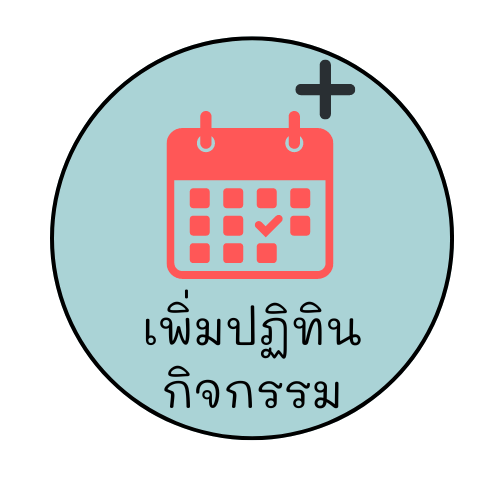
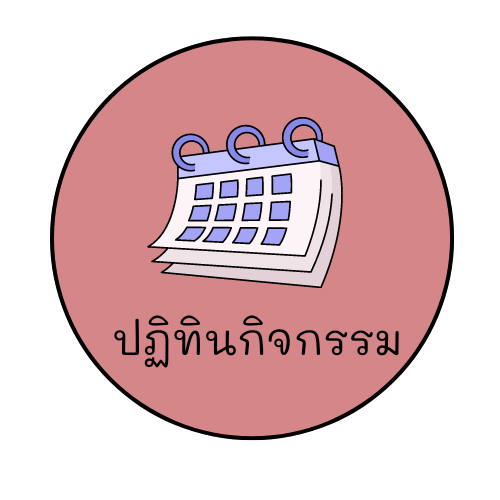
6/22/2024 4:28

diff --git a/login/admin/dashboard/home.php b/login/admin/dashboard/home.php
@@ -35,12 +35,12 @@ $finishCount = 0;
 //     $stmt->execute();
 //     $result = $stmt->fetch(PDO::FETCH_ASSOC);
 //     $breakwaterCount = $result['count'];
-    
+
 //     $stmt = $conn->prepare("SELECT COUNT(*) AS count FROM test WHERE card = 'finish'");
 //     $stmt->execute();
 //     $result = $stmt->fetch(PDO::FETCH_ASSOC);
 //     $finishCount = $result['count'];
-    
+
 
 // } catch(PDOException $e) {
 //     echo "Error: " . $e->getMessage();
@@ -50,31 +50,33 @@ $finishCount = 0;
 ?>
 <!DOCTYPE html>
 <html lang="en">
+
 <head>
     <meta charset="UTF-8">
     <meta name="viewport" content="width=device-width, initial-scale=1.0">
     <title>หน้าหลัก | Watchonglom</title>
     <link rel="stylesheet" href="https://cdn.datatables.net/2.0.1/css/dataTables.dataTables.min.css">
-       <!-- Favicons -->
-       
-  <link rel="apple-touch-icon" sizes="180x180" href="../../assets/img/favicons/senate.png">
-  <link rel="icon" type="image/png" sizes="32x32" href="../../assets/img/favicons/senate.png">
-  <link rel="icon" type="image/png" sizes="16x16" href="../../assets/img/favicons/senate.png">
-  <link rel="manifest" href="../../assets/img/favicons/senate.png">
-  <link rel="mask-icon" href="../../assets/img/favicons/senate.png" color="#5bbad5">
-  <link rel="shortcut icon" href="../../assets/img/favicons/senate.png">
-  <meta name="msapplication-TileColor" content="#da532c">
-  <meta name="msapplication-config" content="../../assets/img/favicons/senate.png">
-  <meta name="theme-color" content="#ffffff">
+    <!-- Favicons -->
+
+    <link rel="apple-touch-icon" sizes="180x180" href="../../assets/img/favicons/senate.png">
+    <link rel="icon" type="image/png" sizes="32x32" href="../../assets/img/favicons/senate.png">
+    <link rel="icon" type="image/png" sizes="16x16" href="../../assets/img/favicons/senate.png">
+    <link rel="manifest" href="../../assets/img/favicons/senate.png">
+    <link rel="mask-icon" href="../../assets/img/favicons/senate.png" color="#5bbad5">
+    <link rel="shortcut icon" href="../../assets/img/favicons/senate.png">
+    <meta name="msapplication-TileColor" content="#da532c">
+    <meta name="msapplication-config" content="../../assets/img/favicons/senate.png">
+    <meta name="theme-color" content="#ffffff">
     <!-- stylesheet -->
-  <link rel="stylesheet" href="https://fonts.googleapis.com/css?family=Mali">
-  <link rel="stylesheet" href="../plugins/fontawesome-free/css/all.min.css">
-  <link rel="stylesheet" href="../assets/css/adminlte.min.css">
-  <link rel="stylesheet" href="../assets/css/style1.css">
+    <link rel="stylesheet" href="https://fonts.googleapis.com/css?family=Mali">
+    <link rel="stylesheet" href="../plugins/fontawesome-free/css/all.min.css">
+    <link rel="stylesheet" href="../assets/css/adminlte.min.css">
+    <link rel="stylesheet" href="../assets/css/style1.css">
 </head>
-<body class = "hold-transition sidebar-mini">
+
+<body class="hold-transition sidebar-mini">
     <div class="wrapper">
-        <?php include_once('../includes/sidebar.php')?>
+        <?php include_once('../includes/sidebar.php') ?>
         <div class="content-wrapper">
             <div class="content-header">
                 <div class="container-fluid">
@@ -92,28 +94,48 @@ $finishCount = 0;
             </div>
             <!-- Main content -->
             <div class="content">
-            <div class="container-fluid">
-                <div class="row">                
-                    <div class="col-12 col-md-3">
-                        <div class="card">
-                            <form id="formData">
-                                    <a href="../add/index.php"  title="เพิ่มบุคลากร">
-                                     <img alt="เพิ่มบุคลากร" class="img-responsive ls-is-cached lazyloaded"   src="../img/เพิ่ม.png"  style="max-width: 75%; height: auto;" >                                                                 
-                                    </a>    
-                            </form>
+                <div class="container-fluid">
+                    <div class="row">
+                        <div class="col-12 col-md-3">
+                            <div class="card">
+                                <form id="formData">
+                                    <a href="../add/index.php" title="เพิ่มบุคลากร">
+                                        <img alt="เพิ่มบุคลากร" class="img-responsive ls-is-cached lazyloaded" src="../img/เพิ่ม.png" style="max-width: 75%; height: auto;">
+                                    </a>
+                                </form>
+                            </div>
                         </div>
-                    </div>
+                        <div class="col-12 col-md-3">
+                            <div class="card">
+                                <form id="formData">
+                                    <a href="../calendar/index.php" title="เพิ่มปฏิทินกิจกรรม">
+                                        <img alt="เพิ่มปฏิทินกิจกรรม" class="img-responsive ls-is-cached lazyloaded" src="../img/ปฏิทิน.png" style="max-width: 75%; height: auto;">
+                                    </a>
+                                </form>
+                            </div>
+                        </div>
+                        <div class="col-12 col-md-3">
+                            <div class="card">
+                                <form id="formData">
+                                    <a href="../line_notify/index.php" title="line-Notify">
+                                        <img alt="Line-Notify" class="img-responsive ls-is-cached lazyloaded" src="../img/Line.png" style="max-width: 75%; height: auto;">
+                                    </a>
+                                </form>
+                            </div>
+                        </div>
 
-                        </div>
-                        </div>
+
                     </div>
-           
+                </div>
+            </div>
+
         </div>
     </div>
     <script src="https://code.jquery.com/jquery-3.7.1.min.js"></script>
-       
+
     <script src="../assets/js/home.js"></script>
 </body>
+
 </html>
 <!-- SCRIPTS -->
 
@@ -124,4 +146,4 @@ $finishCount = 0;
 
 <!-- OPTIONAL SCRIPTS -->
 <script src="../plugins/chart.js/Chart.min.js"></script>
-<script src="../assets/js/pages/dashboard.js"></script> 
+<script src="../assets/js/pages/dashboard.js"></script>

diff --git a/login/person/dashboard/home.php b/login/person/dashboard/home.php
@@ -35,12 +35,12 @@ $finishCount = 0;
 //     $stmt->execute();
 //     $result = $stmt->fetch(PDO::FETCH_ASSOC);
 //     $breakwaterCount = $result['count'];
-    
+
 //     $stmt = $conn->prepare("SELECT COUNT(*) AS count FROM test WHERE card = 'finish'");
 //     $stmt->execute();
 //     $result = $stmt->fetch(PDO::FETCH_ASSOC);
 //     $finishCount = $result['count'];
-    
+
 
 // } catch(PDOException $e) {
 //     echo "Error: " . $e->getMessage();
@@ -50,31 +50,33 @@ $finishCount = 0;
 ?>
 <!DOCTYPE html>
 <html lang="en">
+
 <head>
     <meta charset="UTF-8">
     <meta name="viewport" content="width=device-width, initial-scale=1.0">
     <title>หน้าหลัก | Watchonglom</title>
     <link rel="stylesheet" href="https://cdn.datatables.net/2.0.1/css/dataTables.dataTables.min.css">
-       <!-- Favicons -->
-       
-  <link rel="apple-touch-icon" sizes="180x180" href="../../assets/img/favicons/senate.png">
-  <link rel="icon" type="image/png" sizes="32x32" href="../../assets/img/favicons/senate.png">
-  <link rel="icon" type="image/png" sizes="16x16" href="../../assets/img/favicons/senate.png">
-  <link rel="manifest" href="../../assets/img/favicons/senate.png">
-  <link rel="mask-icon" href="../../assets/img/favicons/senate.png" color="#5bbad5">
-  <link rel="shortcut icon" href="../../assets/img/favicons/senate.png">
-  <meta name="msapplication-TileColor" content="#da532c">
-  <meta name="msapplication-config" content="../../assets/img/favicons/senate.png">
-  <meta name="theme-color" content="#ffffff">
+    <!-- Favicons -->
+
+    <link rel="apple-touch-icon" sizes="180x180" href="../../assets/img/favicons/senate.png">
+    <link rel="icon" type="image/png" sizes="32x32" href="../../assets/img/favicons/senate.png">
+    <link rel="icon" type="image/png" sizes="16x16" href="../../assets/img/favicons/senate.png">
+    <link rel="manifest" href="../../assets/img/favicons/senate.png">
+    <link rel="mask-icon" href="../../assets/img/favicons/senate.png" color="#5bbad5">
+    <link rel="shortcut icon" href="../../assets/img/favicons/senate.png">
+    <meta name="msapplication-TileColor" content="#da532c">
+    <meta name="msapplication-config" content="../../assets/img/favicons/senate.png">
+    <meta name="theme-color" content="#ffffff">
     <!-- stylesheet -->
-  <link rel="stylesheet" href="https://fonts.googleapis.com/css?family=Mali">
-  <link rel="stylesheet" href="../plugins/fontawesome-free/css/all.min.css">
-  <link rel="stylesheet" href="../assets/css/adminlte.min.css">
-  <link rel="stylesheet" href="../assets/css/style1.css">
+    <link rel="stylesheet" href="https://fonts.googleapis.com/css?family=Mali">
+    <link rel="stylesheet" href="../plugins/fontawesome-free/css/all.min.css">
+    <link rel="stylesheet" href="../assets/css/adminlte.min.css">
+    <link rel="stylesheet" href="../assets/css/style1.css">
 </head>
-<body class = "hold-transition sidebar-mini">
+
+<body class="hold-transition sidebar-mini">
     <div class="wrapper">
-        <?php include_once('../includes/sidebar.php')?>
+        <?php include_once('../includes/sidebar.php') ?>
         <div class="content-wrapper">
             <div class="content-header">
                 <div class="container-fluid">
@@ -91,14 +93,38 @@ $finishCount = 0;
                 </div>
             </div>
             <!-- Main content -->
-           
-           
+            <div class="content">
+                <div class="container-fluid">
+                    <div class="row">
+                        <div class="col-12 col-md-3">
+                            <div class="card">
+                                <form id="formData">
+                                    <a href="../tables/index.php" title="ตารางสอน ครู-นักเรียน">
+                                        <img alt="ตารางสอน ครู-นักเรียน" class="img-responsive ls-is-cached lazyloaded" src="../img/ตารางสอน.png" style="max-width: 75%; height: auto;">
+                                    </a>
+                                </form>
+                            </div>
+                        </div>
+
+                        <div class="col-12 col-md-3">
+                            <div class="card">
+                                <form id="formData">
+                                    <a href="../calendar/index.php" title="ปฏิทินกิจกรรม">
+                                        <img alt="ปฏิทินกิจกรรม" class="img-responsive ls-is-cached lazyloaded" src="../img/ปฏิทิน.png" style="max-width: 75%; height: auto;">
+                                    </a>
+                                </form>
+                            </div>
+                        </div>
+                    </div>
+                </div>
+            </div>
         </div>
     </div>
     <script src="https://code.jquery.com/jquery-3.7.1.min.js"></script>
-       
+
     <script src="../assets/js/home.js"></script>
 </body>
+
 </html>
 <!-- SCRIPTS -->
 
@@ -109,4 +135,4 @@ $finishCount = 0;
 
 <!-- OPTIONAL SCRIPTS -->
 <script src="../plugins/chart.js/Chart.min.js"></script>
-<script src="../assets/js/pages/dashboard.js"></script> 
+<script src="../assets/js/pages/dashboard.js"></script>

diff --git a/login/admin/line_notify/index.php b/login/admin/line_notify/index.php
@@ -59,15 +59,15 @@ $open_connect = 1;
                                     <div class="form-row">
                                         <div class="form-group col-sm-4">
                                             <label for="pre">คำนำหน้า <font style = "color: red; margin-left: 1px">*</font></label>
-                                            <input type="text" name="pre" class="form-control" placeholder="คำนำหน้า" required>
+                                            <input type="text" name="pre" class="form-control" value="<?php echo $result_show['pre'];?>" readonly>
                                         </div>
                                         <div class="form-group col-sm-4">
                                             <label for="firstname">ชื่อ <font style = "color: red; margin-left: 1px">*</font></label>
-                                            <input type="text" name="firstname" class="form-control" placeholder="ชื่อ" required>
+                                            <input type="text" name="firstname" class="form-control" value="<?php echo $result_show['firstname'];?>" readonly>
                                         </div>
                                         <div class="form-group col-sm-4">
                                             <label for="lastname">นามสกุล <font style = "color: red; margin-left: 1px">*</font></label>
-                                            <input type="text" name="lastname" class="form-control" placeholder="นามสกุล" required>
+                                            <input type="text" name="lastname" class="form-control" value="<?php echo $result_show['lastname'];?>" readonly>
                                         </div>
                                     </div>
                                     <div class="form-row">
@@ -79,6 +79,12 @@ $open_connect = 1;
                                             <label for="apostille">หมายเหตุ</label>
                                             <input type="text" name="apostille" class="form-control" >
                                         </div>
+                                        <div class="form-group col-sm-4">
+                                                <div class="custom-file">
+                                                    <label for="image_account">รูปภาพ</label>
+                                                    <input type="file" name="image_url" class="form-control" id="image_url" accept=".jpg, .jpeg, .png" value="" required>
+                                                </div>
+                                               </div> 
                                        
                                     <button class="btn btn-success btn-block" type="submit" name="signup"><i class='fas fa-location-arrow'></i> ส่งข้อความ</button>
                                 </div>

diff --git a/login/admin/line_notify/line_notify.php b/login/admin/line_notify/line_notify.php
@@ -12,6 +12,7 @@ if (isset($_POST['signup'])) {
     $lastname = htmlspecialchars($_POST['lastname']);
     $title = htmlspecialchars($_POST['title']); // แก้ไขจาก tile เป็น title
     $apostille = htmlspecialchars($_POST['apostille']);
+    $image_url = htmlspecialchars($_POST['image_url']); // เพิ่มช่องกรอก URL รูปภาพ
 
     try {
         $stmt = $conn->prepare("INSERT INTO system_db(pre, firstname, lastname, title, apostille) VALUES(:pre, :firstname, :lastname, :title, :apostille)");
@@ -29,22 +30,22 @@ if (isset($_POST['signup'])) {
         $sMessage .= "หมายเหตุ: " . $apostille . "\r\n";
         $sMessage .= "โรงเรียนวัดช่องลมธรรมโชติขอขอบพระคุณอย่างยิ่ง\r\n";
 
-        function notify_message($sMessage, $Token)
+        function notify_message($sMessage, $Token, $image_url)
         {
             $chOne = curl_init();
             curl_setopt($chOne, CURLOPT_URL, "https://notify-api.line.me/api/notify");
             curl_setopt($chOne, CURLOPT_SSL_VERIFYHOST, 0);
             curl_setopt($chOne, CURLOPT_SSL_VERIFYPEER, 0);
             curl_setopt($chOne, CURLOPT_POST, 1);
-            curl_setopt($chOne, CURLOPT_POSTFIELDS, "message=" . $sMessage);
+            curl_setopt($chOne, CURLOPT_POSTFIELDS, "message=" . $sMessage . "&imageThumbnail=" . $image_url . "&imageFullsize=" . $image_url);
             $headers = array('Content-type: application/x-www-form-urlencoded', 'Authorization: Bearer ' . $Token,);
             curl_setopt($chOne, CURLOPT_HTTPHEADER, $headers);
             curl_setopt($chOne, CURLOPT_RETURNTRANSFER, 1);
-            $result = curl_exec($chOne);     
+            $result = curl_exec($chOne);
         }
 
         foreach ($sToken as $Token) {
-            notify_message($sMessage, $Token);
+            notify_message($sMessage, $Token, $image_url);
         }
 
         echo "<script>
